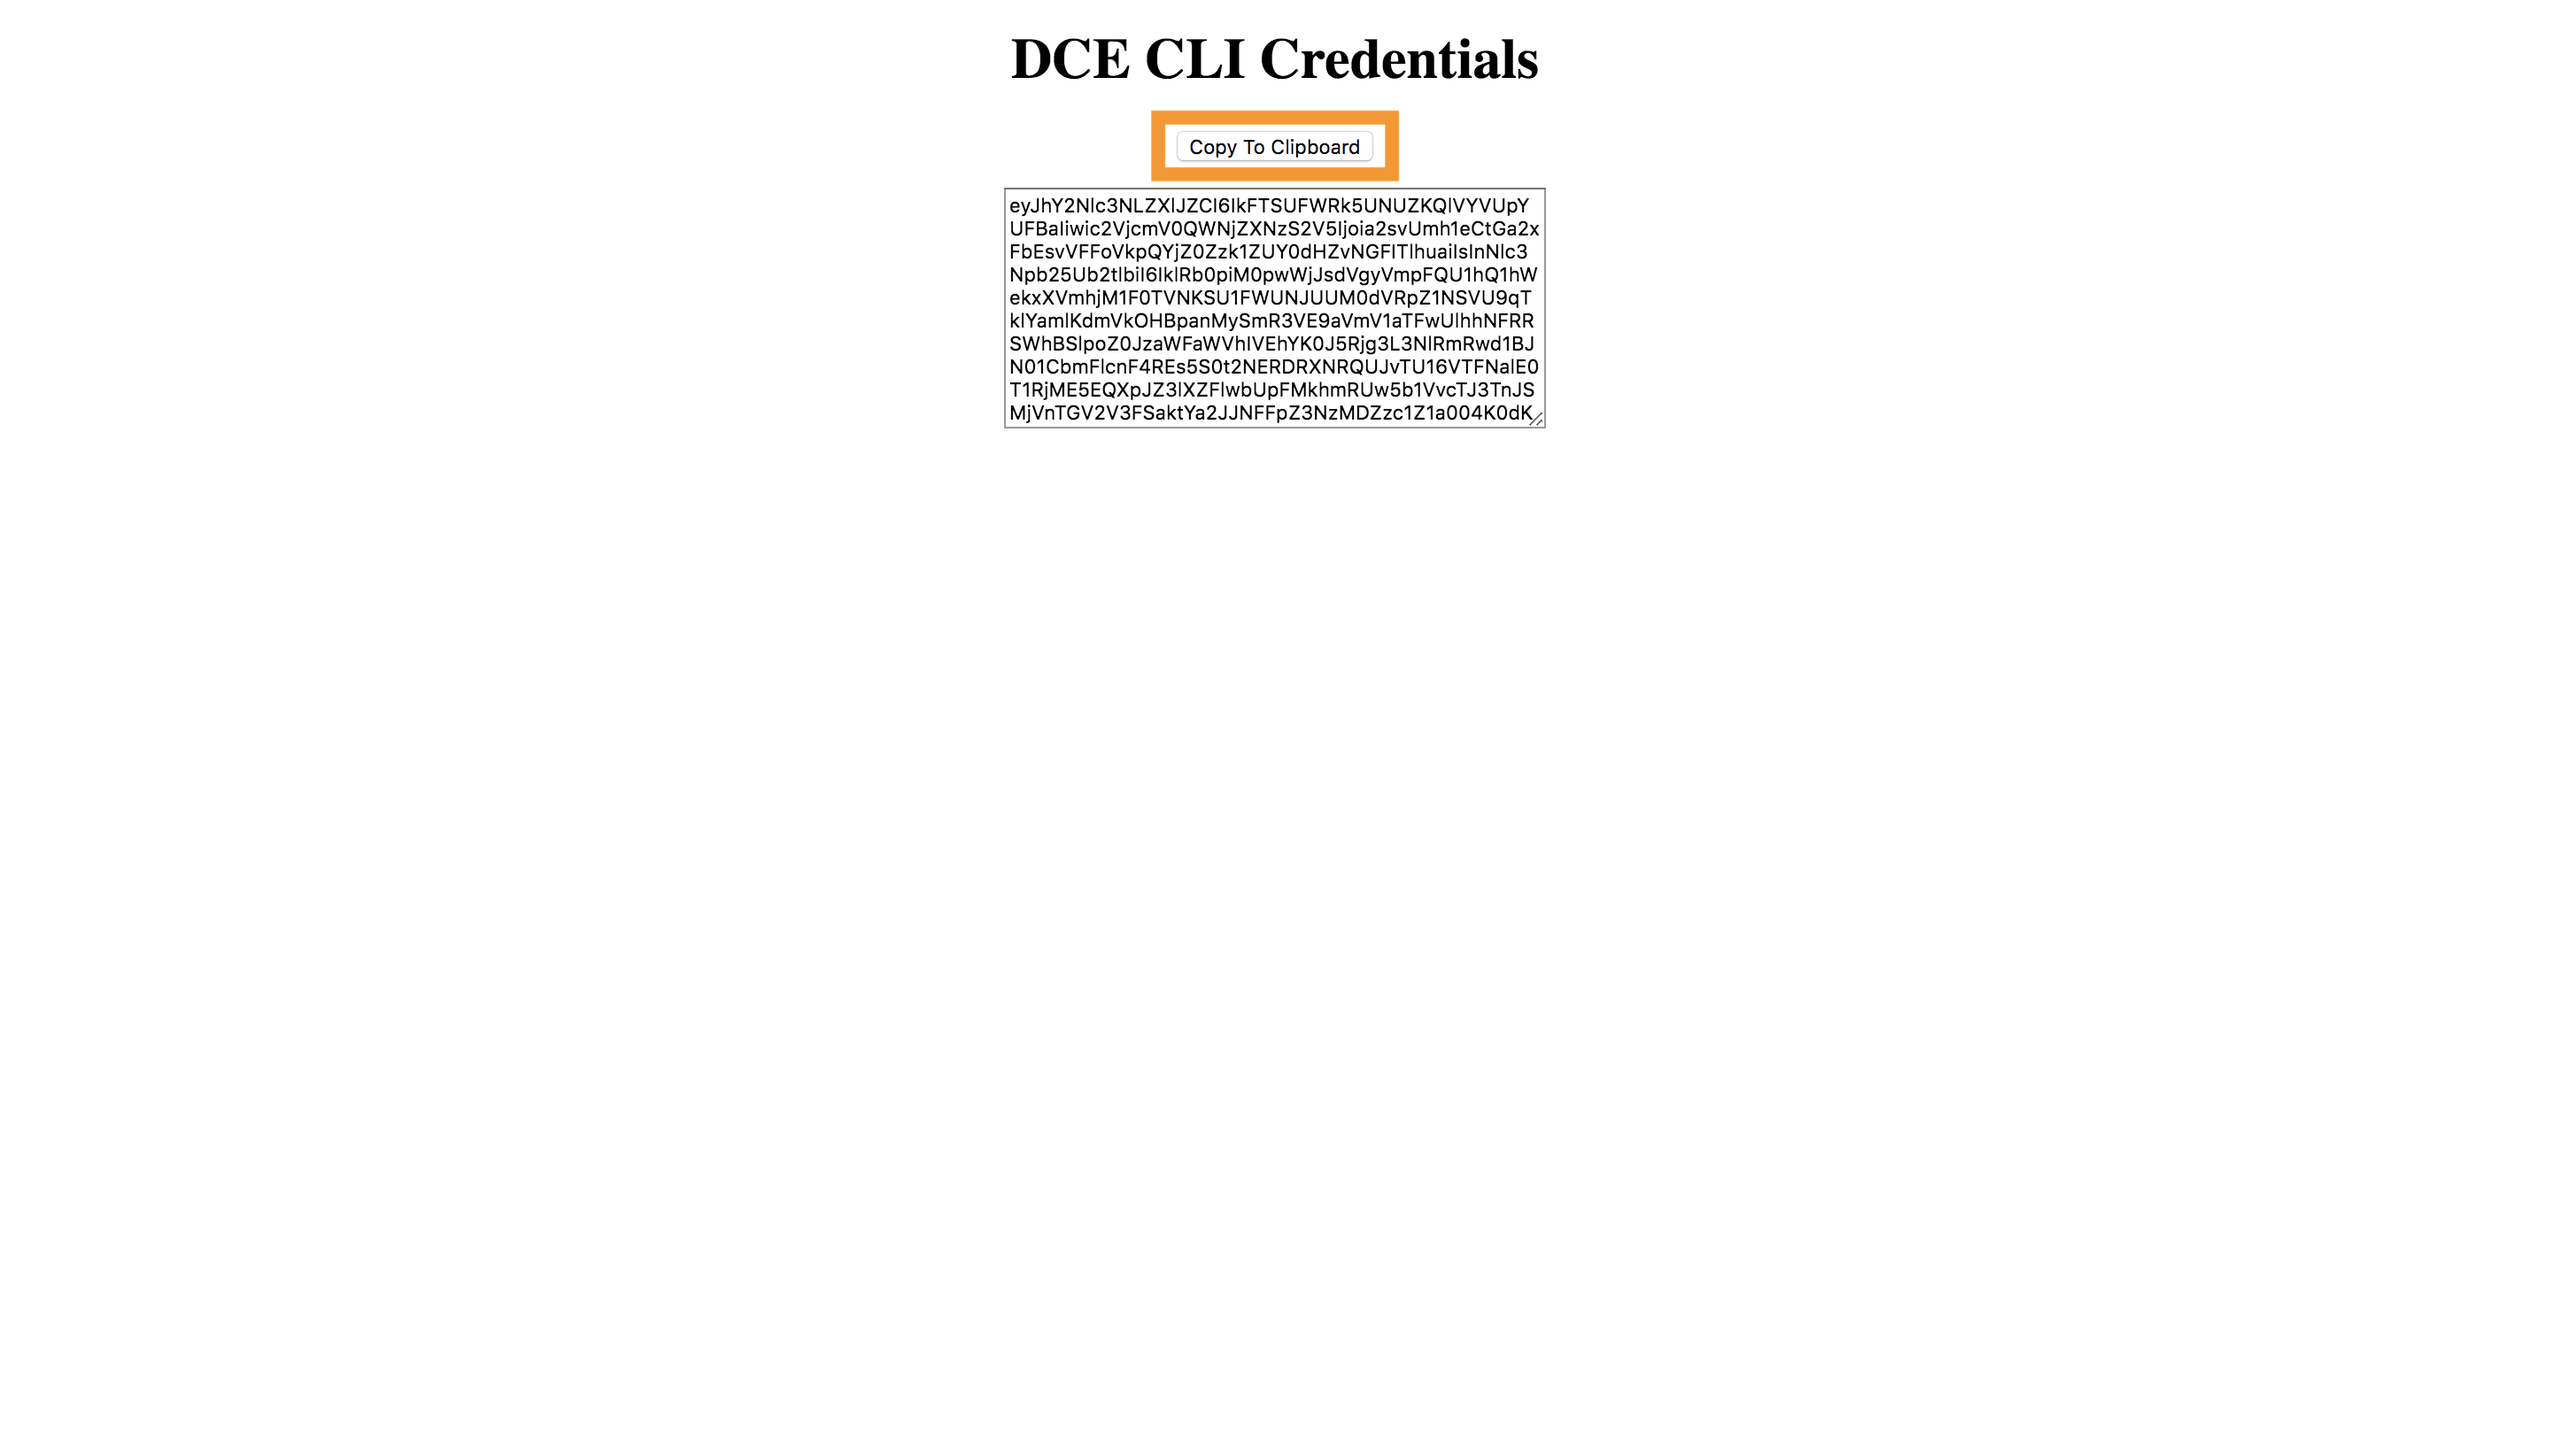
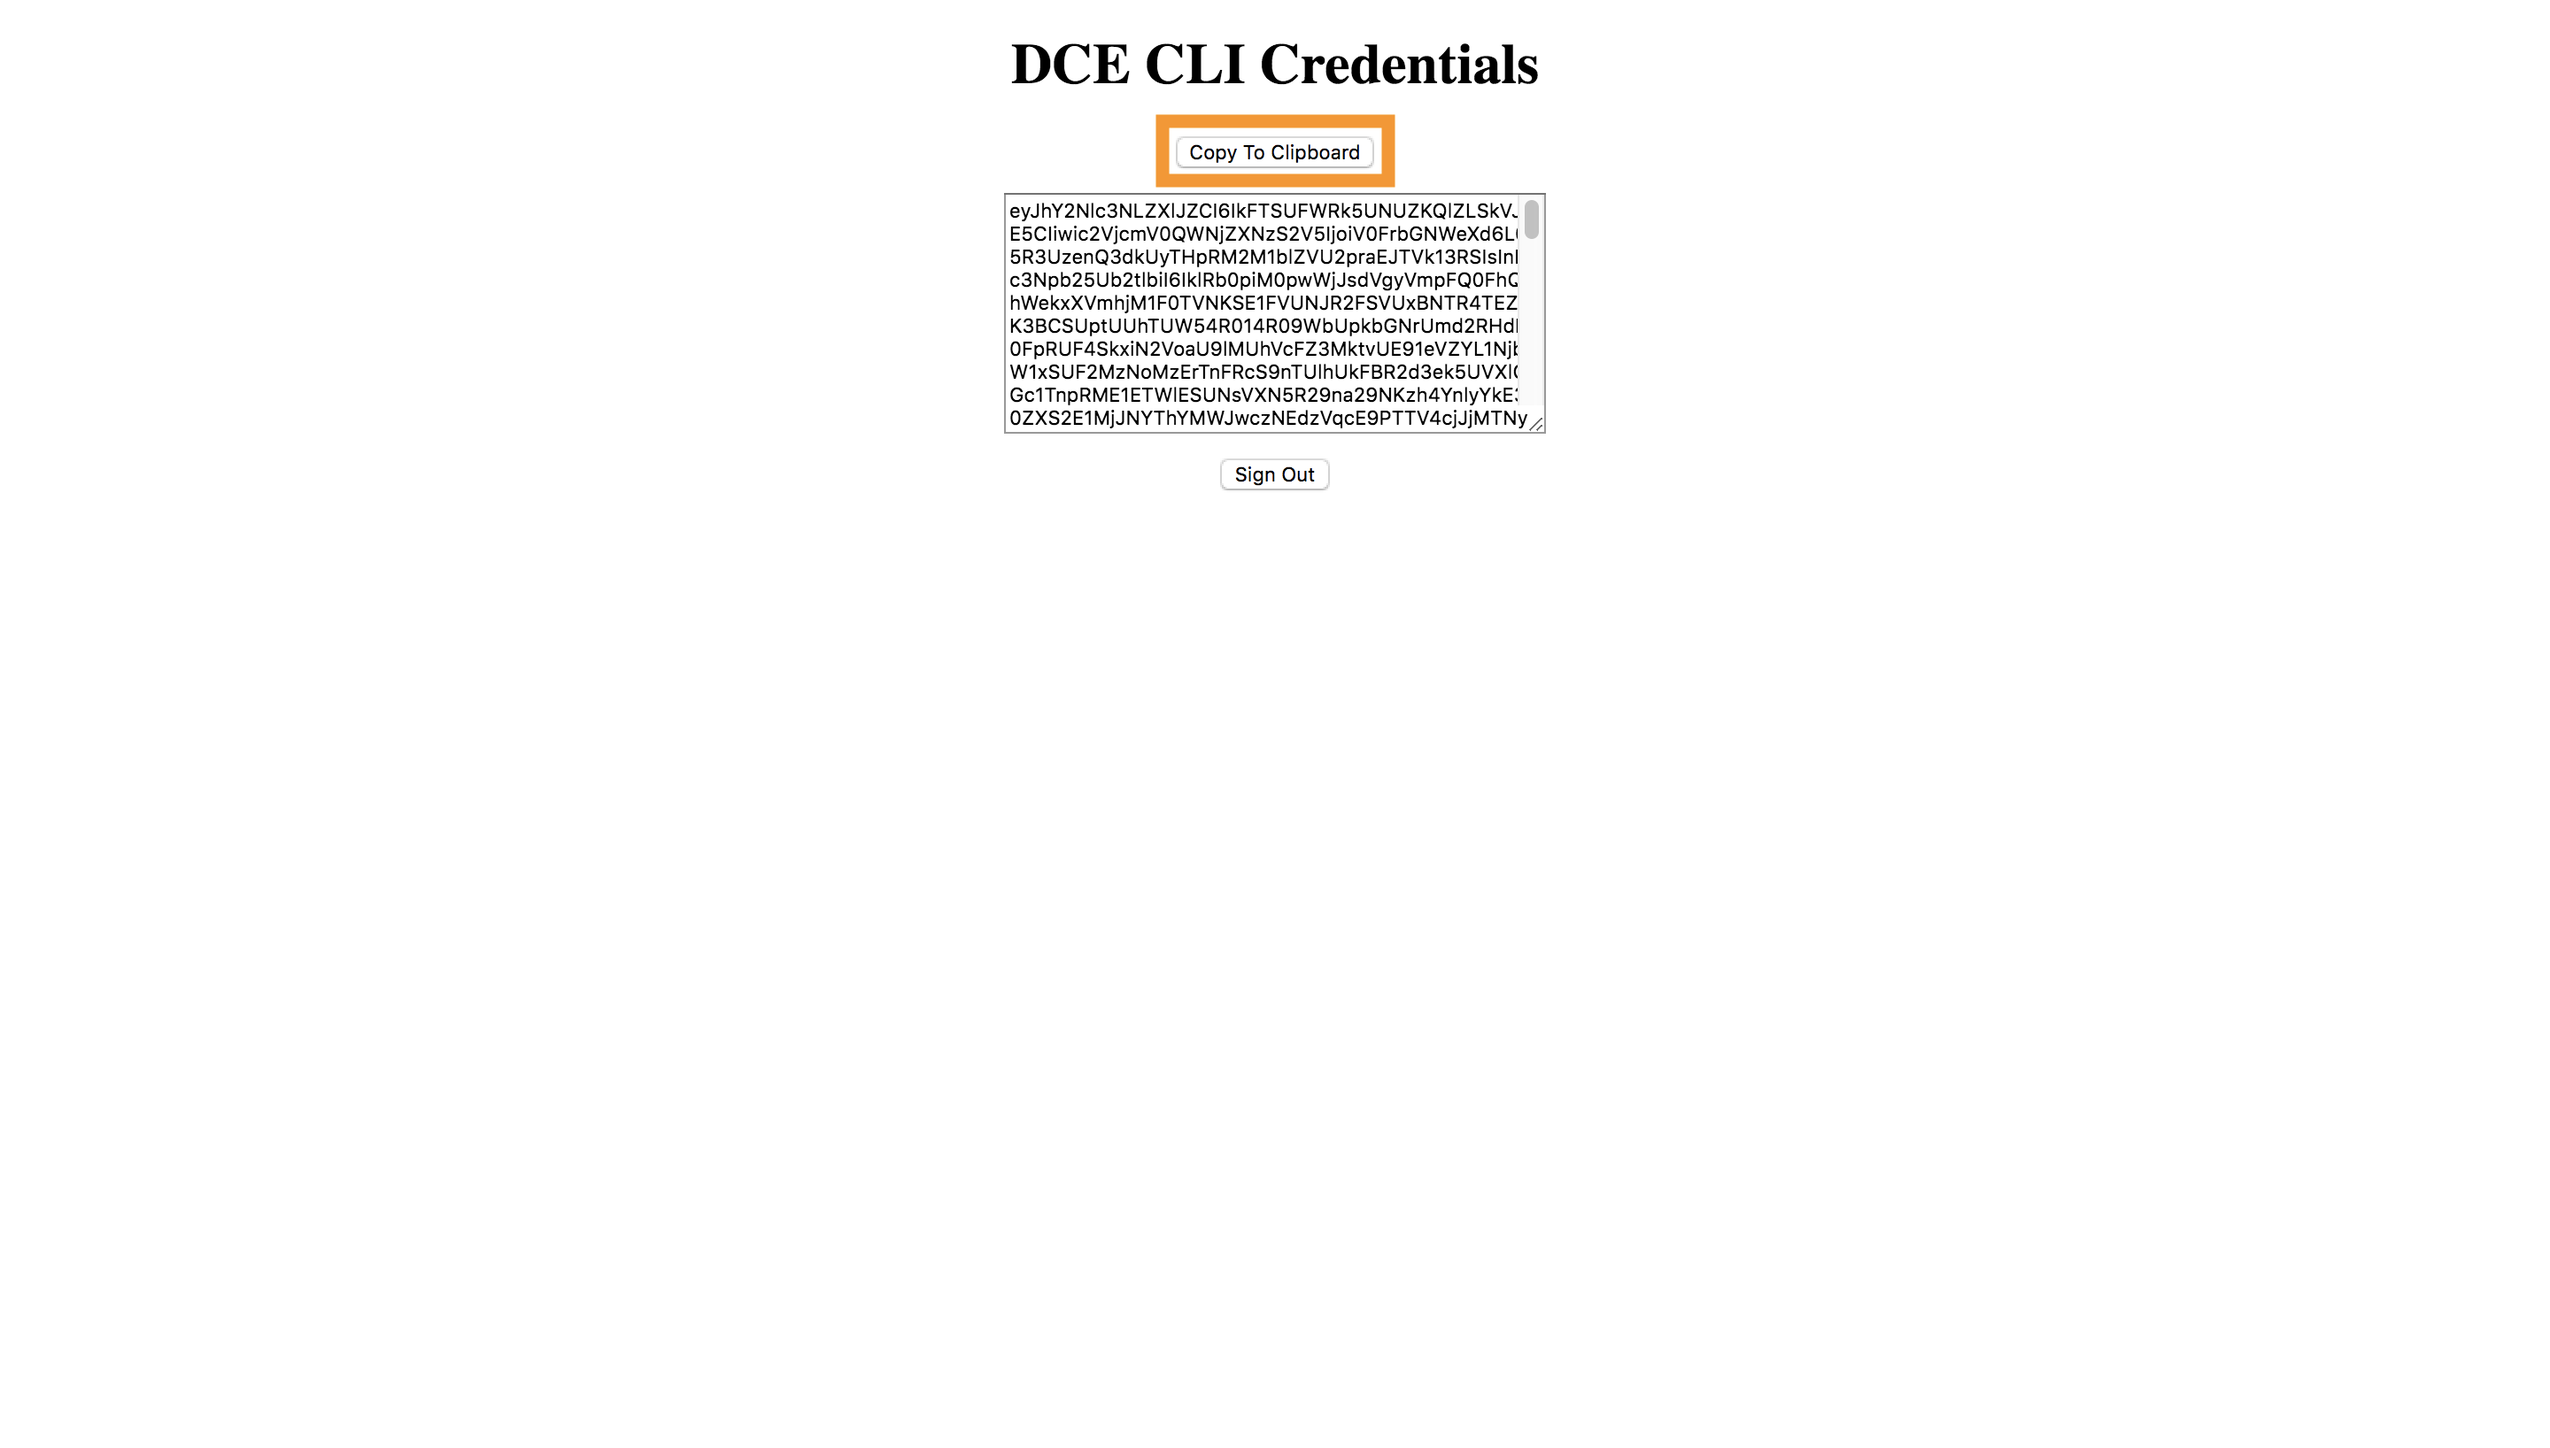
Updated quickstart for sign out button

Changed region(s): [[0.375, 0.0307, 0.625, 0.3374]]

diff --git a/docs/quickstart.md b/docs/quickstart.md
@@ -138,7 +138,7 @@ view information you do not have access to.
     err:  [GET /accounts][403] getAccountsForbidden
     ```
 
-1. You will need to be authenticated as an admin before continuing to the next section. Type `dce auth` to log in as a different user. Enter the username 
+1. You will need to be authenticated as an admin before continuing to the next section. Type `dce auth` to log in as a different user. Sign out, then enter the username
 and password for the admin that you created. As before, copy the auth code and paste it in the prompt in your command terminal.
 
     ![A test image](./quickstartadminlogin.png)
@@ -182,7 +182,7 @@ and password for the admin that you created. As before, copy the auth code and p
 
 ## Leasing a DCE Account
 
-1. Use the `dce auth` command to switch back to the non-admin user.
+1. Use the `dce auth` command to authenticate as a non-admin user.
 
 1. Now that your accounts pool isn't empty, you can create your first lease using the `dce leases create` command.
 
